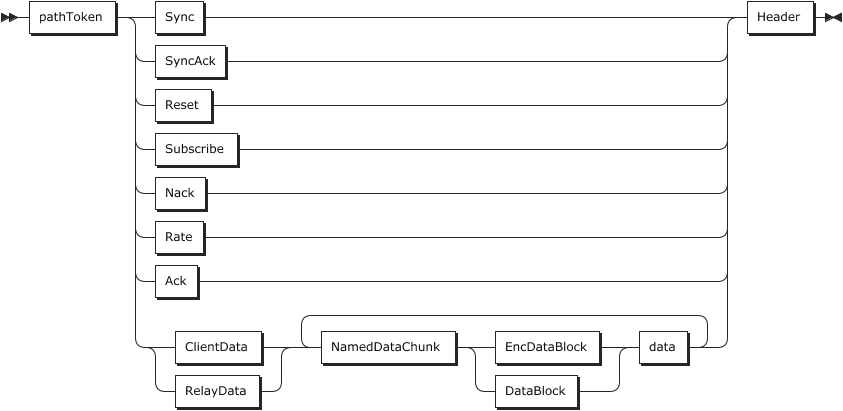
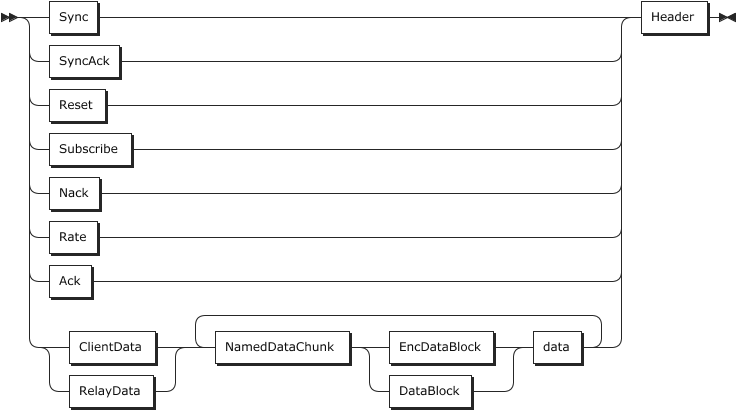
move pathToken to be in the header

diff --git a/quicr-gramar.html b/quicr-gramar.html
@@ -192,9 +192,9 @@
   </style>
    </head>
    <body>
-      <p style="font-size: 14px; font-weight:bold"><a name="Message">Message:</a></p><img border="0" src="diagram/Message.png" height="411" width="843" usemap="#Message.map"><map name="Message.map"><area shape="rect" coords="29,1,115,33" href="#pathToken" title="pathToken"><area shape="rect" coords="155,1,203,33" href="#Sync" title="Sync"><area shape="rect" coords="155,45,225,77" href="#SyncAck" title="SyncAck"><area shape="rect" coords="155,89,211,121" href="#Reset" title="Reset"><area shape="rect" coords="155,133,237,165" href="#Subscribe" title="Subscribe"><area shape="rect" coords="155,177,205,209" href="#Nack" title="Nack"><area shape="rect" coords="155,221,203,253" href="#Rate" title="Rate"><area shape="rect" coords="155,265,197,297" href="#Ack" title="Ack"><area shape="rect" coords="175,331,261,363" href="#ClientData" title="ClientData"><area shape="rect" coords="175,375,259,407" href="#RelayData" title="RelayData"><area shape="rect" coords="321,331,455,363" href="#NamedDataChunk" title="NamedDataChunk"><area shape="rect" coords="495,331,599,363" href="#EncDataBlock" title="EncDataBlock"><area shape="rect" coords="495,375,577,407" href="#DataBlock" title="DataBlock"><area shape="rect" coords="639,331,687,363" href="#data" title="data"><area shape="rect" coords="747,1,813,33" href="#Header" title="Header"></map><p>
+      <p style="font-size: 14px; font-weight:bold"><a name="Message">Message:</a></p><img border="0" src="diagram/Message.png" height="411" width="737" usemap="#Message.map"><map name="Message.map"><area shape="rect" coords="49,1,97,33" href="#Sync" title="Sync"><area shape="rect" coords="49,45,119,77" href="#SyncAck" title="SyncAck"><area shape="rect" coords="49,89,105,121" href="#Reset" title="Reset"><area shape="rect" coords="49,133,131,165" href="#Subscribe" title="Subscribe"><area shape="rect" coords="49,177,99,209" href="#Nack" title="Nack"><area shape="rect" coords="49,221,97,253" href="#Rate" title="Rate"><area shape="rect" coords="49,265,91,297" href="#Ack" title="Ack"><area shape="rect" coords="69,331,155,363" href="#ClientData" title="ClientData"><area shape="rect" coords="69,375,153,407" href="#RelayData" title="RelayData"><area shape="rect" coords="215,331,349,363" href="#NamedDataChunk" title="NamedDataChunk"><area shape="rect" coords="389,331,493,363" href="#EncDataBlock" title="EncDataBlock"><area shape="rect" coords="389,375,471,407" href="#DataBlock" title="DataBlock"><area shape="rect" coords="533,331,581,363" href="#data" title="data"><area shape="rect" coords="641,1,707,33" href="#Header" title="Header"></map><p>
          <div class="ebnf"><code>
-               <div><a href="#Message" title="Message">Message</a>&nbsp;&nbsp;::= <a href="#pathToken" title="pathToken">pathToken</a> ( <a href="#Sync" title="Sync">Sync</a> | <a href="#SyncAck" title="SyncAck">SyncAck</a> | <a href="#Reset" title="Reset">Reset</a> | <a href="#Subscribe" title="Subscribe">Subscribe</a> | <a href="#Nack" title="Nack">Nack</a> | <a href="#Rate" title="Rate">Rate</a> | <a href="#Ack" title="Ack">Ack</a> | ( <a href="#ClientData" title="ClientData">ClientData</a> | <a href="#RelayData" title="RelayData">RelayData</a> ) ( <a href="#NamedDataChunk" title="NamedDataChunk">NamedDataChunk</a> ( <a href="#EncDataBlock" title="EncDataBlock">EncDataBlock</a> | <a href="#DataBlock" title="DataBlock">DataBlock</a> ) <a href="#data" title="data">data</a> )+ ) <a href="#Header" title="Header">Header</a></div></code></div>
+               <div><a href="#Message" title="Message">Message</a>&nbsp;&nbsp;::= ( <a href="#Sync" title="Sync">Sync</a> | <a href="#SyncAck" title="SyncAck">SyncAck</a> | <a href="#Reset" title="Reset">Reset</a> | <a href="#Subscribe" title="Subscribe">Subscribe</a> | <a href="#Nack" title="Nack">Nack</a> | <a href="#Rate" title="Rate">Rate</a> | <a href="#Ack" title="Ack">Ack</a> | ( <a href="#ClientData" title="ClientData">ClientData</a> | <a href="#RelayData" title="RelayData">RelayData</a> ) ( <a href="#NamedDataChunk" title="NamedDataChunk">NamedDataChunk</a> ( <a href="#EncDataBlock" title="EncDataBlock">EncDataBlock</a> | <a href="#DataBlock" title="DataBlock">DataBlock</a> ) <a href="#data" title="data">data</a> )+ ) <a href="#Header" title="Header">Header</a></div></code></div>
       </p>
       <p>no references</p><br><p style="font-size: 14px; font-weight:bold"><a name="Sync">Sync:</a></p><img border="0" src="diagram/Sync.png" height="37" width="663" usemap="#Sync.map"><map name="Sync.map"><area shape="rect" coords="29,1,99,33" href="#tagSync" title="tagSync"><area shape="rect" coords="119,1,179,33" href="#cookie" title="cookie"><area shape="rect" coords="199,1,255,33" href="#origin" title="origin"><area shape="rect" coords="275,1,353,33" href="#senderID" title="senderID"><area shape="rect" coords="373,1,457,33" href="#clientTime" title="clientTime"><area shape="rect" coords="477,1,633,33" href="#supportedFeatureVec" title="supportedFeatureVec"></map><p>
          <div class="ebnf"><code>
@@ -310,16 +310,9 @@
          <ul>
             <li><a href="#Message" title="Message">Message</a></li>
          </ul>
-      </p><br><p style="font-size: 14px; font-weight:bold"><a name="Header">Header:</a></p><img border="0" src="diagram/Header.png" height="345" width="285" usemap="#Header.map"><map name="Header.map"><area shape="rect" coords="49,1,159,33" href="#tagHeaderSyn" title="tagHeaderSyn"><area shape="rect" coords="49,45,199,77" href="#tagPacketTypSynAck" title="tagPacketTypSynAck"><area shape="rect" coords="49,89,155,121" href="#tagHeaderRst" title="tagHeaderRst"><area shape="rect" coords="49,133,165,165" href="#tagHeaderData" title="tagHeaderData"><area shape="rect" coords="49,177,195,209" href="#tagHeaderSynCrazy" title="tagHeaderSynCrazy"><area shape="rect" coords="49,221,235,253" href="#tagPacketTypSynAckCrazy" title="tagPacketTypSynAckCrazy"><area shape="rect" coords="49,265,195,297" href="#tagHeaderResCrazy" title="tagHeaderResCrazy"><area shape="rect" coords="49,309,203,341" href="#tagHeaderDataCrazy" title="tagHeaderDataCrazy"></map><p>
+      </p><br><p style="font-size: 14px; font-weight:bold"><a name="Header">Header:</a></p><img border="0" src="diagram/Header.png" height="345" width="391" usemap="#Header.map"><map name="Header.map"><area shape="rect" coords="29,1,115,33" href="#pathToken" title="pathToken"><area shape="rect" coords="155,1,265,33" href="#tagHeaderSyn" title="tagHeaderSyn"><area shape="rect" coords="155,45,305,77" href="#tagPacketTypSynAck" title="tagPacketTypSynAck"><area shape="rect" coords="155,89,261,121" href="#tagHeaderRst" title="tagHeaderRst"><area shape="rect" coords="155,133,271,165" href="#tagHeaderData" title="tagHeaderData"><area shape="rect" coords="155,177,301,209" href="#tagHeaderSynCrazy" title="tagHeaderSynCrazy"><area shape="rect" coords="155,221,341,253" href="#tagPacketTypSynAckCrazy" title="tagPacketTypSynAckCrazy"><area shape="rect" coords="155,265,301,297" href="#tagHeaderResCrazy" title="tagHeaderResCrazy"><area shape="rect" coords="155,309,309,341" href="#tagHeaderDataCrazy" title="tagHeaderDataCrazy"></map><p>
          <div class="ebnf"><code>
-               <div><a href="#Header" title="Header">Header</a>&nbsp;&nbsp;&nbsp;::= <a href="#tagHeaderSyn" title="tagHeaderSyn">tagHeaderSyn</a></div>
-               <div>&nbsp;&nbsp;&nbsp;&nbsp;&nbsp;&nbsp;&nbsp;&nbsp;&nbsp;&nbsp;&nbsp;| <a href="#tagPacketTypSynAck" title="tagPacketTypSynAck">tagPacketTypSynAck</a></div>
-               <div>&nbsp;&nbsp;&nbsp;&nbsp;&nbsp;&nbsp;&nbsp;&nbsp;&nbsp;&nbsp;&nbsp;| <a href="#tagHeaderRst" title="tagHeaderRst">tagHeaderRst</a></div>
-               <div>&nbsp;&nbsp;&nbsp;&nbsp;&nbsp;&nbsp;&nbsp;&nbsp;&nbsp;&nbsp;&nbsp;| <a href="#tagHeaderData" title="tagHeaderData">tagHeaderData</a></div>
-               <div>&nbsp;&nbsp;&nbsp;&nbsp;&nbsp;&nbsp;&nbsp;&nbsp;&nbsp;&nbsp;&nbsp;| <a href="#tagHeaderSynCrazy" title="tagHeaderSynCrazy">tagHeaderSynCrazy</a></div>
-               <div>&nbsp;&nbsp;&nbsp;&nbsp;&nbsp;&nbsp;&nbsp;&nbsp;&nbsp;&nbsp;&nbsp;| <a href="#tagPacketTypSynAckCrazy" title="tagPacketTypSynAckCrazy">tagPacketTypSynAckCrazy</a></div>
-               <div>&nbsp;&nbsp;&nbsp;&nbsp;&nbsp;&nbsp;&nbsp;&nbsp;&nbsp;&nbsp;&nbsp;| <a href="#tagHeaderResCrazy" title="tagHeaderResCrazy">tagHeaderResCrazy</a></div>
-               <div>&nbsp;&nbsp;&nbsp;&nbsp;&nbsp;&nbsp;&nbsp;&nbsp;&nbsp;&nbsp;&nbsp;| <a href="#tagHeaderDataCrazy" title="tagHeaderDataCrazy">tagHeaderDataCrazy</a></div></code></div>
+               <div><a href="#Header" title="Header">Header</a>&nbsp;&nbsp;&nbsp;::= <a href="#pathToken" title="pathToken">pathToken</a> ( <a href="#tagHeaderSyn" title="tagHeaderSyn">tagHeaderSyn</a> | <a href="#tagPacketTypSynAck" title="tagPacketTypSynAck">tagPacketTypSynAck</a> | <a href="#tagHeaderRst" title="tagHeaderRst">tagHeaderRst</a> | <a href="#tagHeaderData" title="tagHeaderData">tagHeaderData</a> | <a href="#tagHeaderSynCrazy" title="tagHeaderSynCrazy">tagHeaderSynCrazy</a> | <a href="#tagPacketTypSynAckCrazy" title="tagPacketTypSynAckCrazy">tagPacketTypSynAckCrazy</a> | <a href="#tagHeaderResCrazy" title="tagHeaderResCrazy">tagHeaderResCrazy</a> | <a href="#tagHeaderDataCrazy" title="tagHeaderDataCrazy">tagHeaderDataCrazy</a> )</div></code></div>
       </p>
       <p>referenced by:
          <ul>
